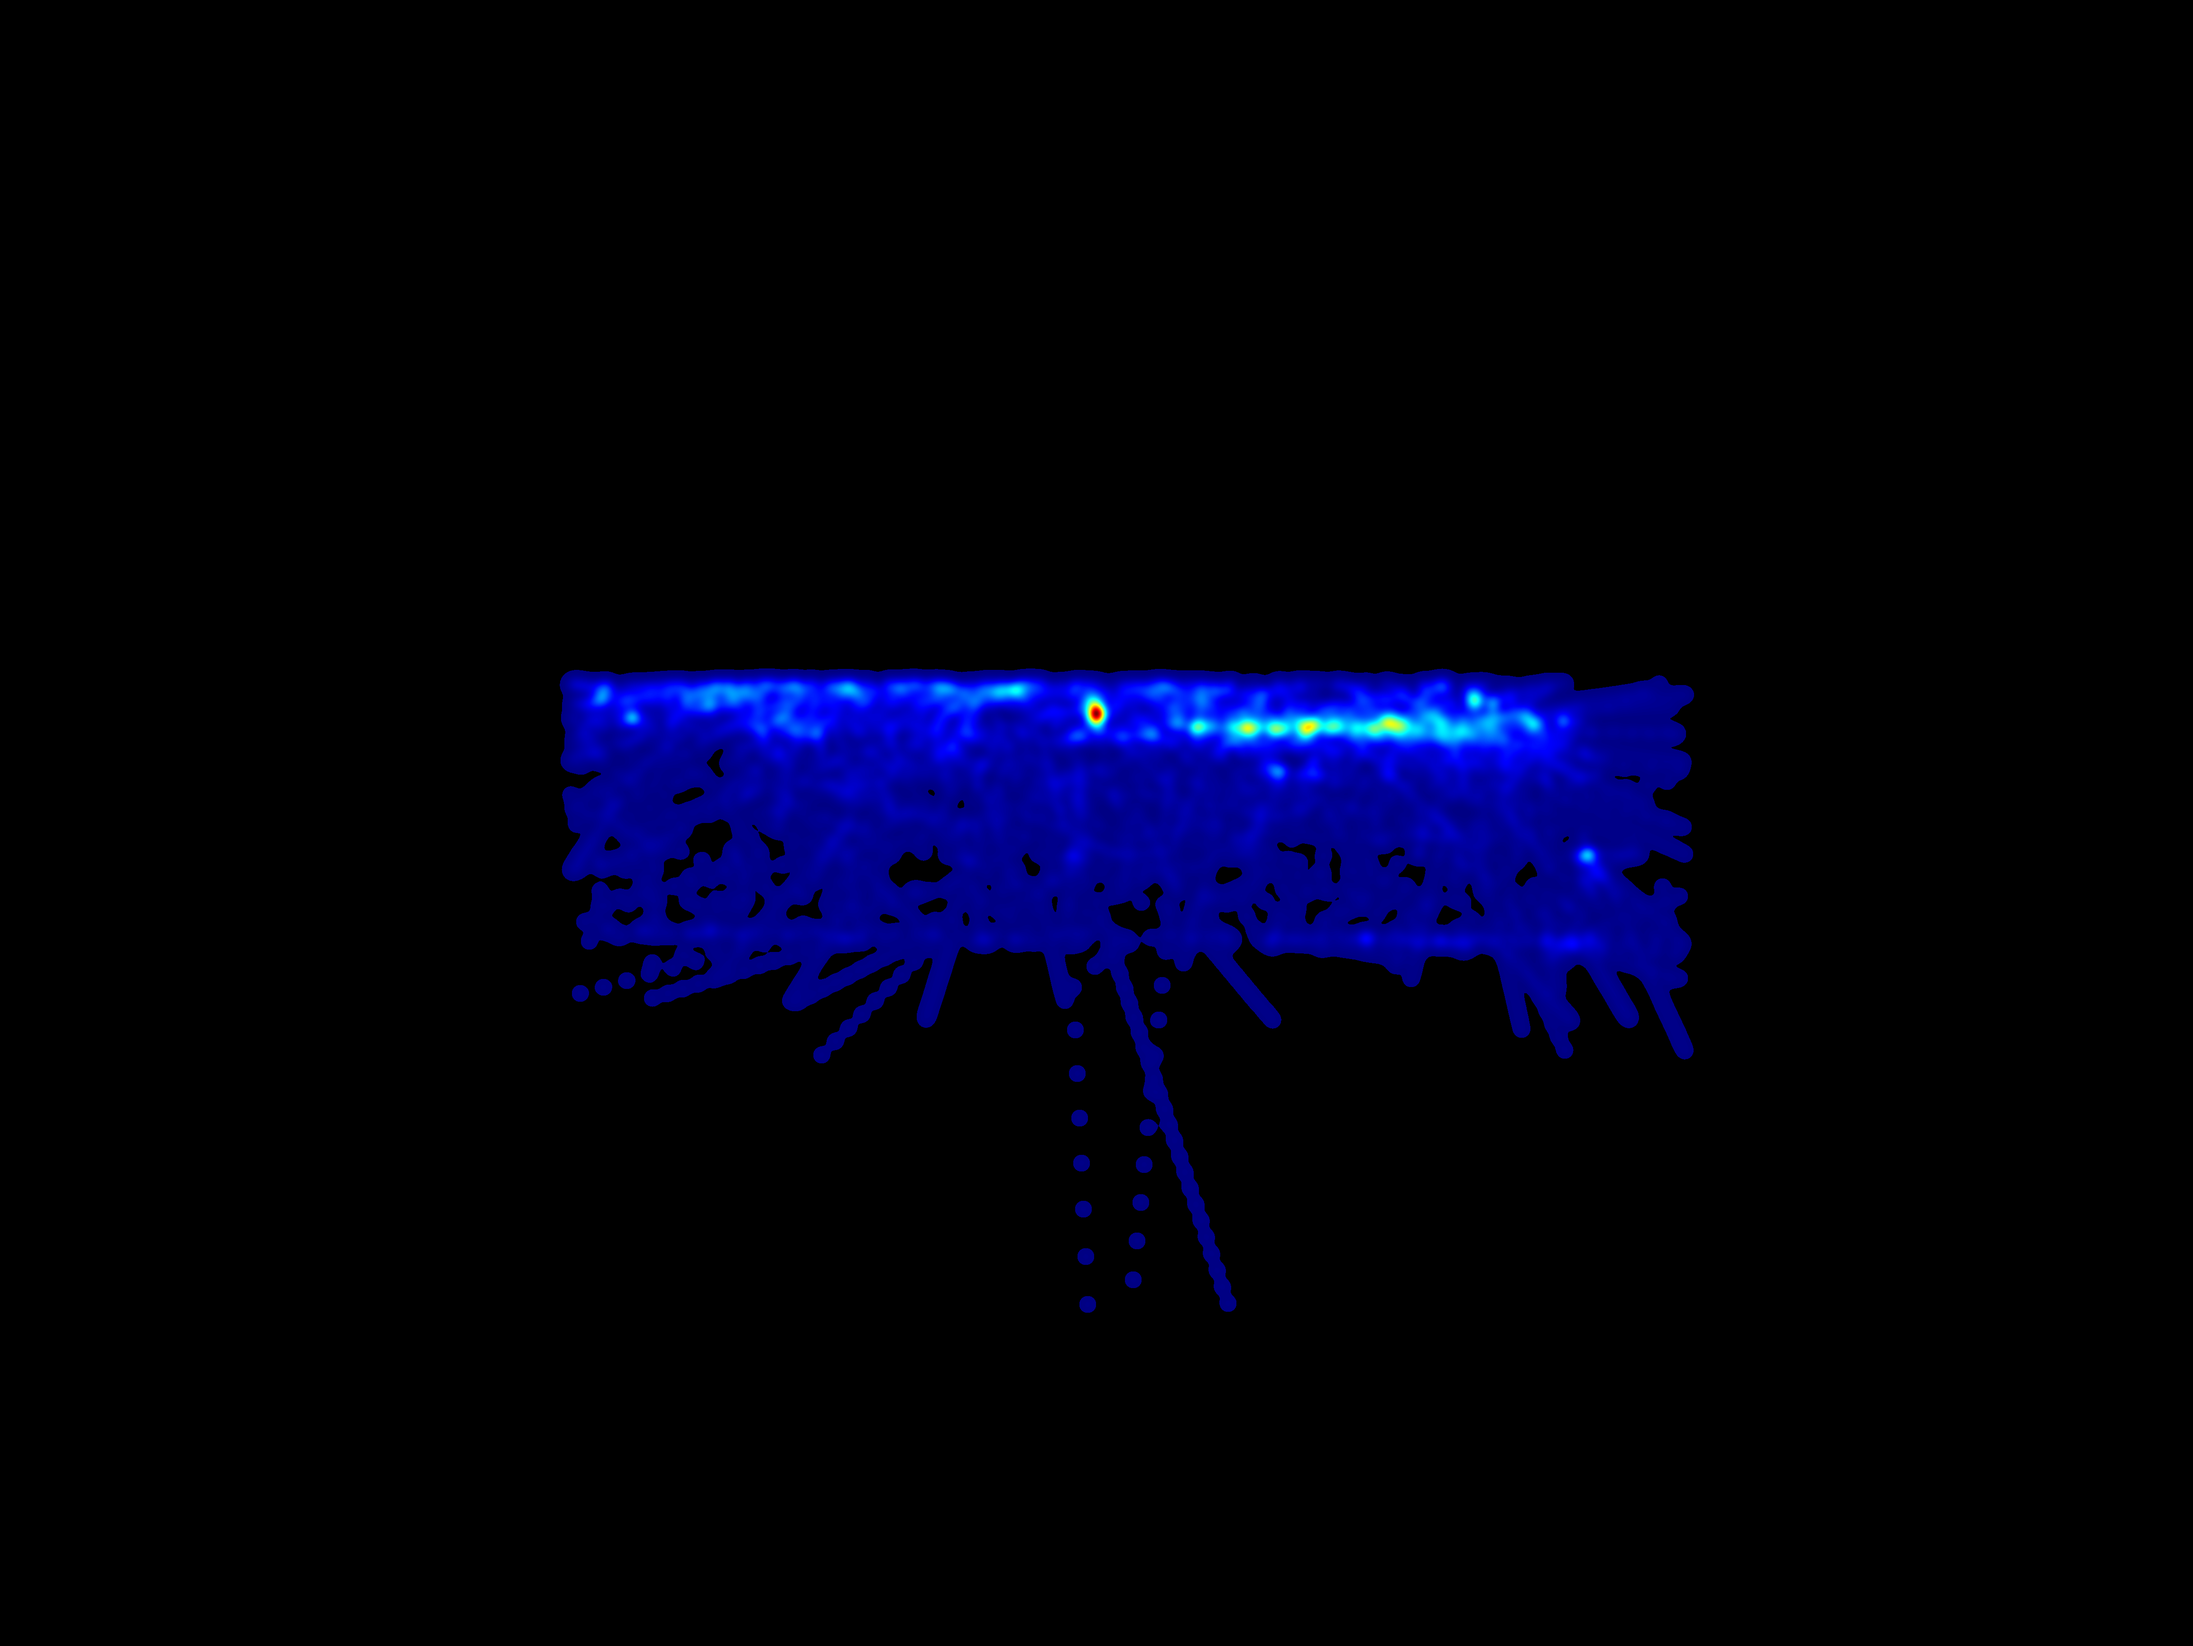
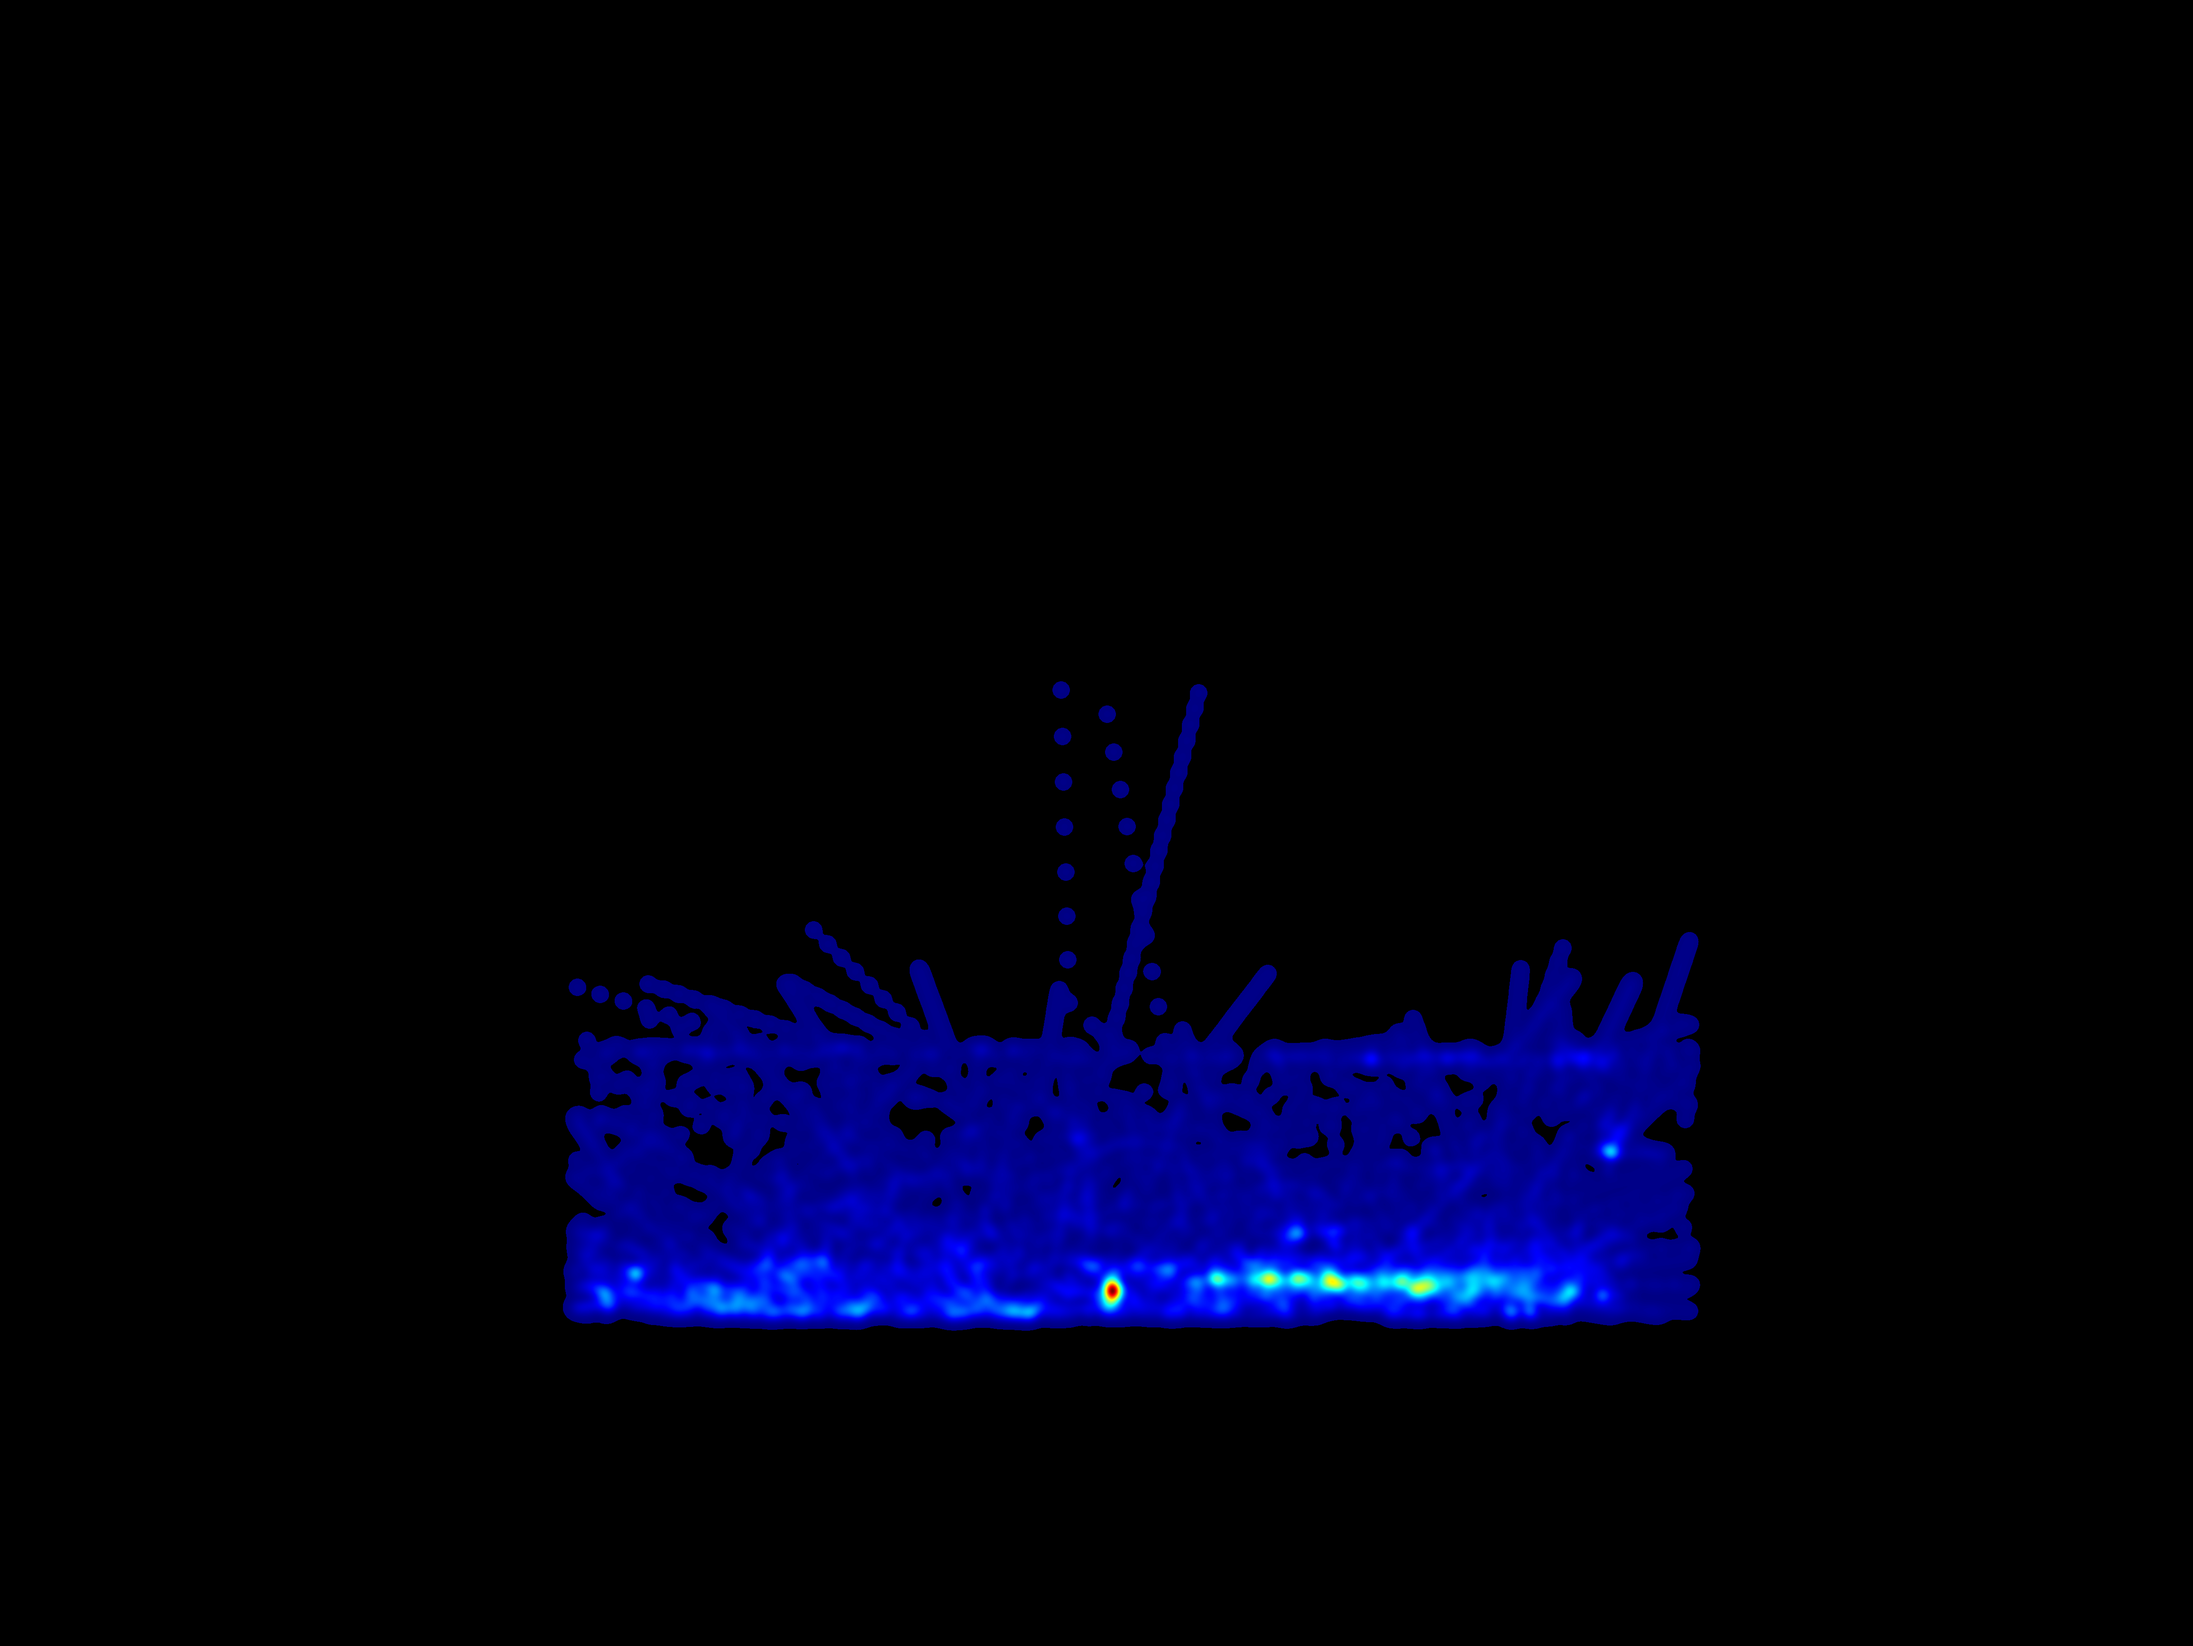
heatmap okay

Changed region(s): [[0.2491, 0.4044, 0.7785, 0.8088]]

diff --git a/plan_heatmap.py b/plan_heatmap.py
@@ -121,10 +121,16 @@ def generate_plan_heatmap_from_csv(
     H_plan, W_plan = plan_bgr.shape[:2]
 
     # --- THIS IS THE FIX ---
-    # All previous flipping logic has been removed.
-    # The transformation now directly maps the source points from the video
-    # to the destination points you click on the plan.
-    Hmat = cv2.getPerspectiveTransform(src_points, dst_points)
+    # To invert the heatmap vertically, we flip the destination points.
+    # The homography will now map the source trapezoid to an inverted
+    # version of the destination rectangle, effectively flipping the result.
+    dst_points_flipped = np.array([
+        dst_points[3],  # Bottom-left
+        dst_points[2],  # Bottom-right
+        dst_points[1],  # Top-right
+        dst_points[0],  # Top-left
+    ], dtype=np.float32)
+    Hmat = cv2.getPerspectiveTransform(src_points, dst_points_flipped)
     # --- END FIX ---
 
     # 1. Select points from CSV and transform them
